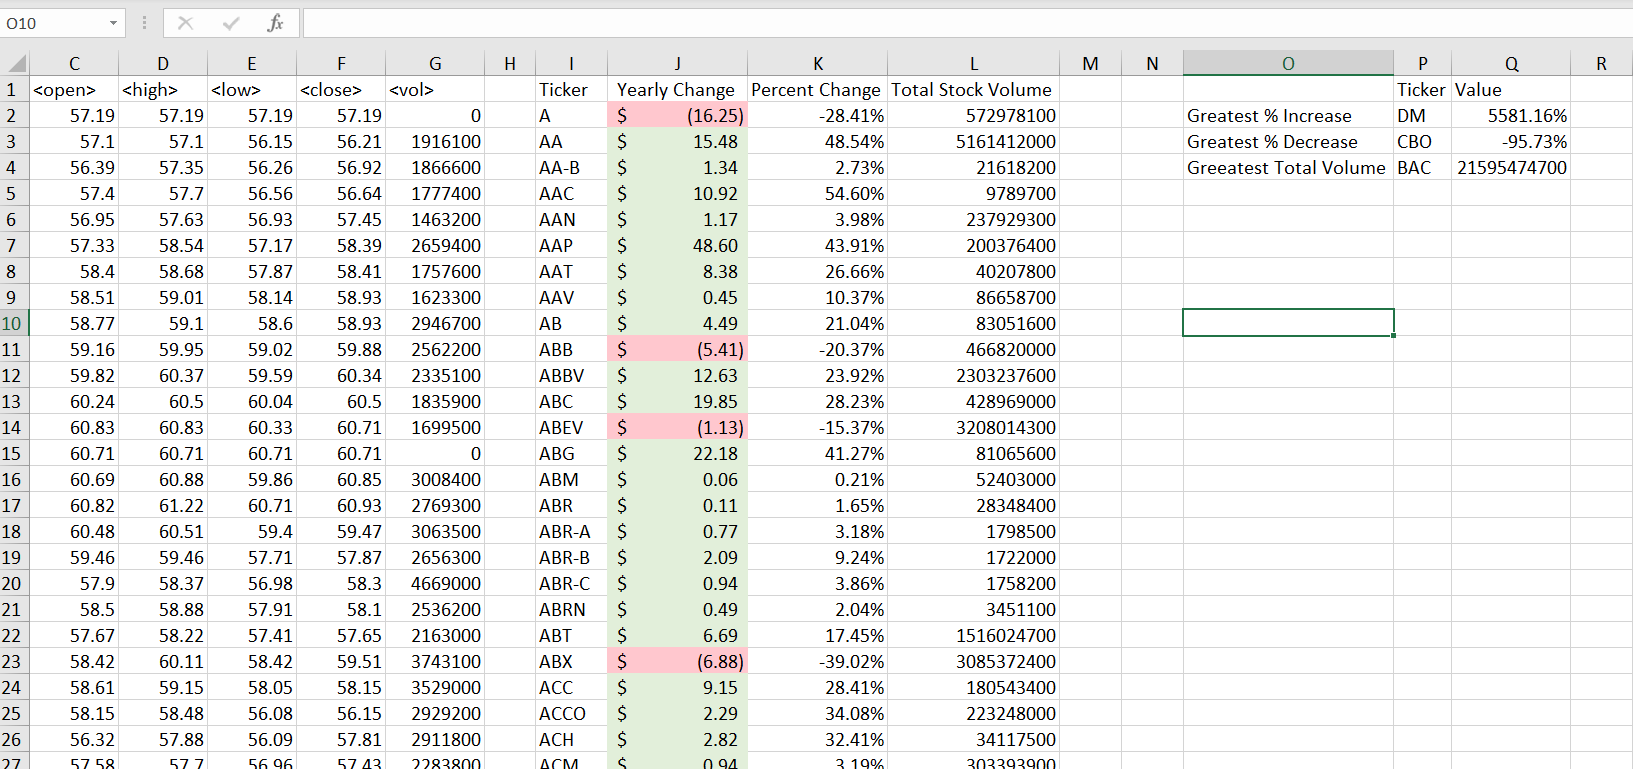
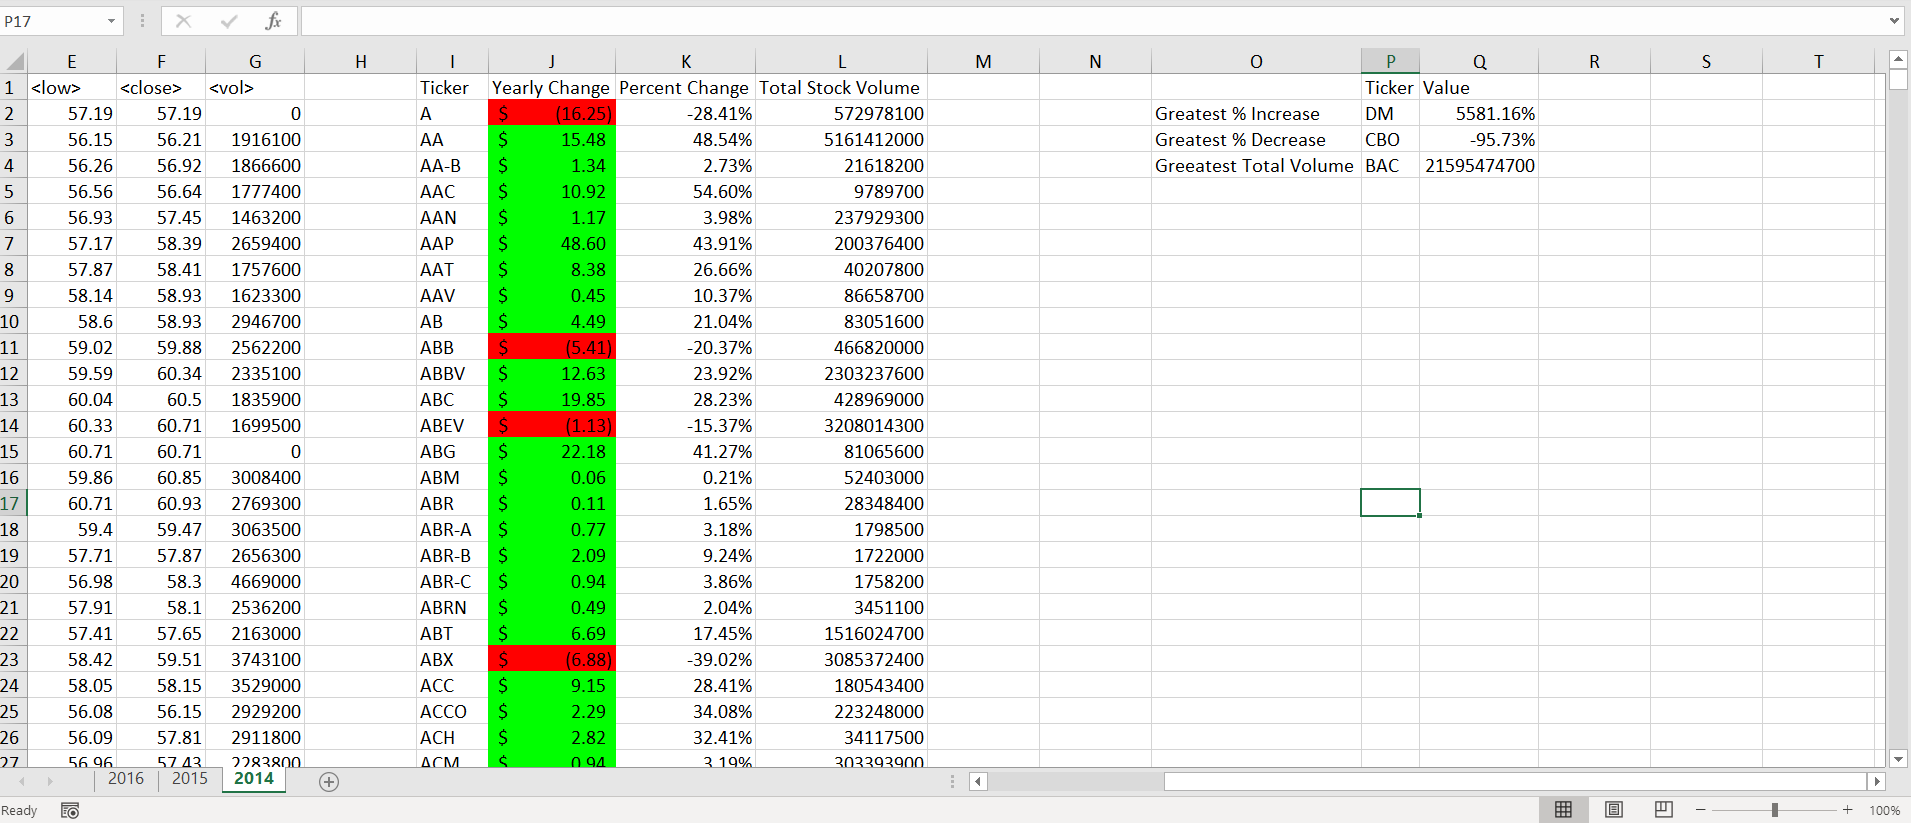
Update Macro
The macro was updated to automatically apply formatting

diff --git a/README.md b/README.md
@@ -1,13 +1,9 @@
 # VBA-challenge
 Second homework assignment
 
-The module in this folder will loop through the sheets of "Multiple_year_stock_data.xlsx"
+The included Stock_anal in this folder will loop through the sheets of "Multiple_year_stock_data.xlsx"
 
 It will create the table headings of the two requested tables on each sheet, populate it with the collected and calculated data.
 
-It will automatically create the headings of the output tables and automatically switch between sheets.  It does not, however, automatically add any formatting, conditional or otherwise.
-
-For this module to run on similar workbooks with a different number of sheets or whose sheets have different names the code would need to be manually updated in the "For j..." loop to add the new sheet names and the appropriate number of loops.
-
-Other than that it works great!
+It will automatically create the headings of the output tables and automatically switch between sheets.  It will also automatically color cells conditionally and format them properly.
 
